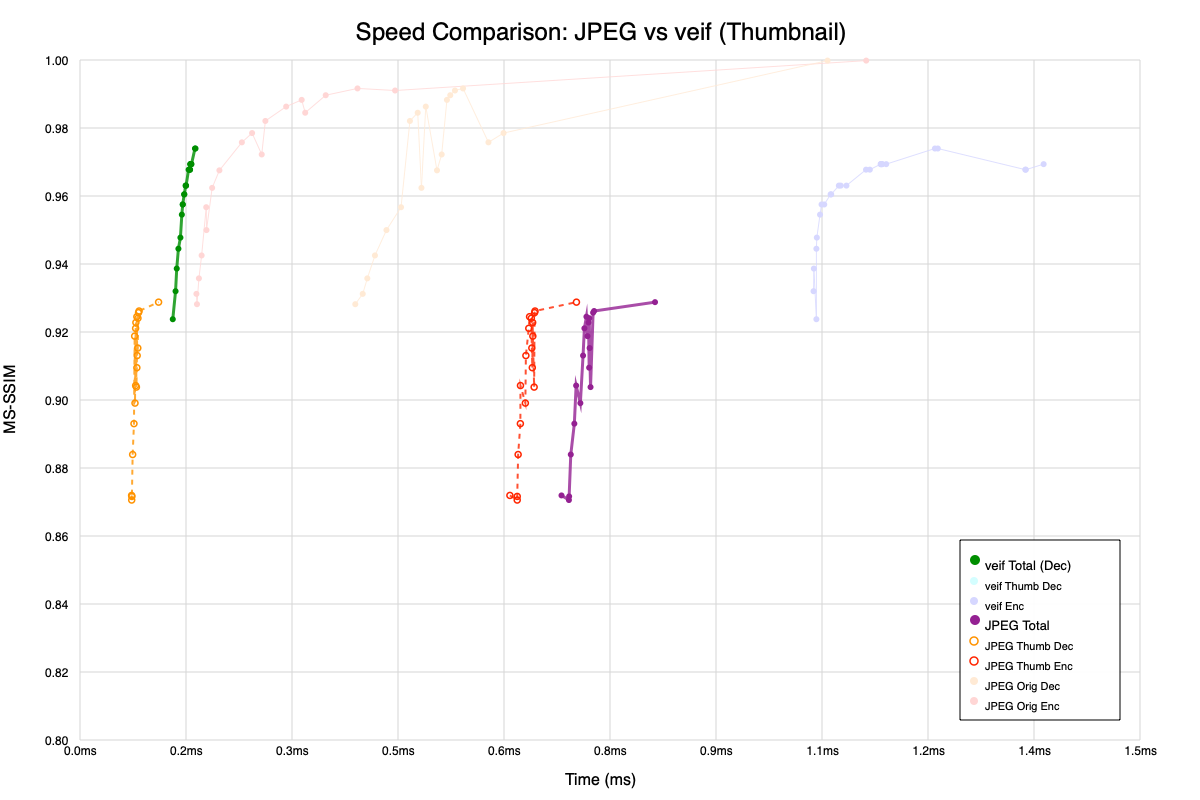
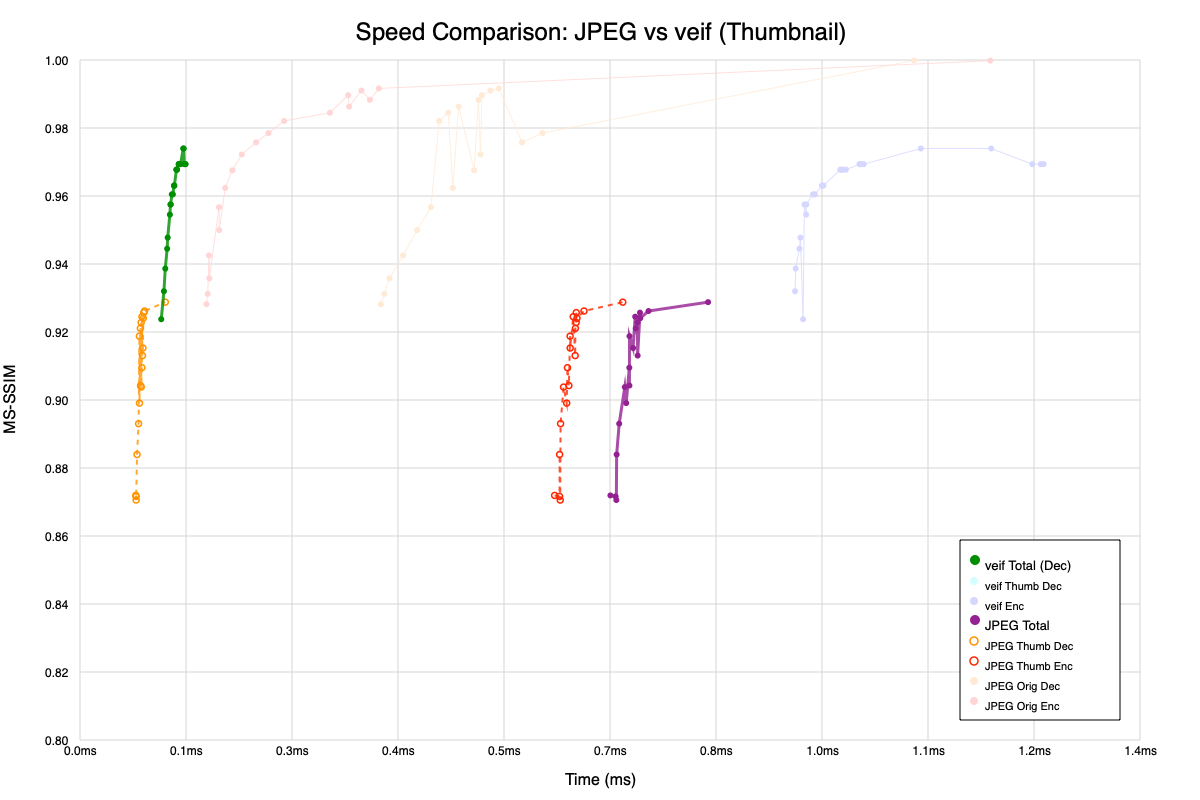
improve performance

diff --git a/Sources/veif/Image.swift b/Sources/veif/Image.swift
@@ -307,43 +307,91 @@ public struct Image16: Sendable {
     }
     
     public mutating func updateY(data: Block2D, startX: Int, startY: Int, size: Int) {
-        for h in 0..<size {
-            if height <= (startY + h) {
-                continue
-            }
-            for w in 0..<size {
-                if width <= (startX + w) {
-                    continue
+        let validStartY = max(0, startY)
+        let validStartX = max(0, startX)
+        let validEndY = min(height, startY + size)
+        let validEndX = min(width, startX + size)
+        
+        let loopH = validEndY - validStartY
+        let loopW = validEndX - validStartX
+        
+        if loopH <= 0 || loopW <= 0 { return }
+        
+        let dataOffsetY = validStartY - startY
+        let dataOffsetX = validStartX - startX
+        
+        for h in 0..<loopH {
+            self.y[validStartY + h].withUnsafeMutableBufferPointer { destPtr in
+                data.withUnsafeBufferPointer(atRow: dataOffsetY + h) { srcPtr in
+                    guard let destBase = destPtr.baseAddress,
+                          let srcBase = srcPtr.baseAddress else { return }
+                    
+                    let destStart = destBase.advanced(by: validStartX)
+                    let srcStart = srcBase.advanced(by: dataOffsetX)
+                    destStart.update(from: srcStart, count: loopW)
                 }
-                self.y[startY + h][startX + w] = data[h, w]
             }
         }
     }
     
     public mutating func updateCb(data: Block2D, startX: Int, startY: Int, size: Int) {
-        for h in 0..<size {
-            if (height / 2) <= (startY + h) {
-                continue
-            }
-            for w in 0..<size {
-                if (width / 2) <= (startX + w) {
-                    continue
+        let halfHeight = (height / 2)
+        let halfWidth = (width / 2)
+        
+        let validStartY = max(0, startY)
+        let validStartX = max(0, startX)
+        let validEndY = min(halfHeight, startY + size)
+        let validEndX = min(halfWidth, startX + size)
+        
+        let loopH = validEndY - validStartY
+        let loopW = validEndX - validStartX
+        
+        if loopH <= 0 || loopW <= 0 { return }
+        
+        let dataOffsetY = validStartY - startY
+        let dataOffsetX = validStartX - startX
+        
+        for h in 0..<loopH {
+            self.cb[validStartY + h].withUnsafeMutableBufferPointer { destPtr in
+                data.withUnsafeBufferPointer(atRow: dataOffsetY + h) { srcPtr in
+                    guard let destBase = destPtr.baseAddress,
+                          let srcBase = srcPtr.baseAddress else { return }
+                    
+                    let destStart = destBase.advanced(by: validStartX)
+                    let srcStart = srcBase.advanced(by: dataOffsetX)
+                    destStart.update(from: srcStart, count: loopW)
                 }
-                self.cb[startY + h][startX + w] = data[h, w]
             }
         }
     }
     
     public mutating func updateCr(data: Block2D, startX: Int, startY: Int, size: Int) {
-        for h in 0..<size {
-            if (height / 2) <= (startY + h) {
-                continue
-            }
-            for w in 0..<size {
-                if (width / 2) <= (startX + w) {
-                    continue
+        let halfHeight = (height / 2)
+        let halfWidth = (width / 2)
+        
+        let validStartY = max(0, startY)
+        let validStartX = max(0, startX)
+        let validEndY = min(halfHeight, startY + size)
+        let validEndX = min(halfWidth, startX + size)
+        
+        let loopH = validEndY - validStartY
+        let loopW = validEndX - validStartX
+        
+        if loopH <= 0 || loopW <= 0 { return }
+        
+        let dataOffsetY = validStartY - startY
+        let dataOffsetX = validStartX - startX
+        
+        for h in 0..<loopH {
+            self.cr[validStartY + h].withUnsafeMutableBufferPointer { destPtr in
+                data.withUnsafeBufferPointer(atRow: dataOffsetY + h) { srcPtr in
+                    guard let destBase = destPtr.baseAddress,
+                          let srcBase = srcPtr.baseAddress else { return }
+                    
+                    let destStart = destBase.advanced(by: validStartX)
+                    let srcStart = srcBase.advanced(by: dataOffsetX)
+                    destStart.update(from: srcStart, count: loopW)
                 }
-                self.cr[startY + h][startX + w] = data[h, w]
             }
         }
     }
@@ -352,19 +400,53 @@ public struct Image16: Sendable {
         var img = YCbCrImage(width: width, height: height)
         
         for y in 0..<height {
-            for x in 0..<width {
-                let offset = img.yOffset(x, y)
-                img.yPlane[offset] = clampU8(self.y[y][x])
+            let srcRow = self.y[y]
+            let destOffset = img.yOffset(0, y)
+            
+            srcRow.withUnsafeBufferPointer { srcPtr in
+                img.yPlane.withUnsafeMutableBufferPointer { destPtr in
+                    guard let srcBase = srcPtr.baseAddress,
+                          let destBase = destPtr.baseAddress else { return }
+                    
+                    let destRowStart = destBase.advanced(by: destOffset)
+                    
+                    for i in 0..<width {
+                        destRowStart[i] = clampU8(srcBase[i])
+                    }
+                }
             }
         }
         
-        for y in 0..<(height / 2) {
-            for x in 0..<(width / 2) {
-                let offset = img.cOffset(x, y)
-                img.cbPlane[offset] = clampU8(self.cb[y][x])
-                img.crPlane[offset] = clampU8(self.cr[y][x])
+        let halfHeight = height / 2
+        let halfWidth = width / 2
+        
+        for y in 0..<halfHeight {
+            let srcCbRow = self.cb[y]
+            let srcCrRow = self.cr[y]
+            let destOffset = img.cOffset(0, y)
+            
+            srcCbRow.withUnsafeBufferPointer { cbPtr in
+                srcCrRow.withUnsafeBufferPointer { crPtr in
+                    img.cbPlane.withUnsafeMutableBufferPointer { destCbPtr in
+                        img.crPlane.withUnsafeMutableBufferPointer { destCrPtr in
+                            guard let cbBase = cbPtr.baseAddress,
+                                  let crBase = crPtr.baseAddress,
+                                  let destCbBase = destCbPtr.baseAddress,
+                                  let destCrBase = destCrPtr.baseAddress else { return }
+                            
+                            let destCbRowStart = destCbBase.advanced(by: destOffset)
+                            let destCrRowStart = destCrBase.advanced(by: destOffset)
+                            
+                            for i in 0..<halfWidth {
+                                destCbRowStart[i] = clampU8(cbBase[i])
+                                destCrRowStart[i] = clampU8(crBase[i])
+                            }
+                        }
+                    }
+                }
             }
         }
+        
         return img
     }
 }

diff --git a/Tests/veifTests/ImageTests.swift b/Tests/veifTests/ImageTests.swift
@@ -1,0 +1,129 @@
+import XCTest
+@testable import veif
+
+final class ImageTests: XCTestCase {
+    
+    func testUpdateY() {
+        var image = Image16(width: 8, height: 8)
+        let block = Block2D(width: 4, height: 4)
+        for h in 0..<4 {
+            for w in 0..<4 {
+                block[h, w] = Int16(h * 4 + w + 1)
+            }
+        }
+        
+        // Normal update
+        image.updateY(data: block, startX: 0, startY: 0, size: 4)
+        
+        for h in 0..<4 {
+            for w in 0..<4 {
+                XCTAssertEqual(image.y[h][w], Int16(h * 4 + w + 1))
+            }
+        }
+        
+        // Boundary update (clipping)
+        image.updateY(data: block, startX: 6, startY: 6, size: 4)
+        // Should update (6,6), (6,7), (7,6), (7,7)
+        // Block data indices:
+        // h=0, w=0 -> 1 -> img[6][6]
+        // h=0, w=1 -> 2 -> img[6][7]
+        // h=1, w=0 -> 5 -> img[7][6]
+        // h=1, w=1 -> 6 -> img[7][7]
+        
+        XCTAssertEqual(image.y[6][6], 1)
+        XCTAssertEqual(image.y[6][7], 2)
+        XCTAssertEqual(image.y[7][6], 5)
+        XCTAssertEqual(image.y[7][7], 6)
+        
+        // Ensure no overflow / crash for out of bounds
+        image.updateY(data: block, startX: 8, startY: 8, size: 4) // Completely out
+        image.updateY(data: block, startX: -10, startY: -10, size: 4) // Negative out (though size is usually positive, logic handles startX/Y relative to loops)
+    }
+
+    func testUpdateCb() {
+        var image = Image16(width: 8, height: 8)
+        // Cb size is 4x4
+        let block = Block2D(width: 2, height: 2)
+        block[0, 0] = 10
+        block[0, 1] = 20
+        block[1, 0] = 30
+        block[1, 1] = 40
+        
+        // Normal update
+        image.updateCb(data: block, startX: 0, startY: 0, size: 2)
+        XCTAssertEqual(image.cb[0][0], 10)
+        XCTAssertEqual(image.cb[0][1], 20)
+        XCTAssertEqual(image.cb[1][0], 30)
+        XCTAssertEqual(image.cb[1][1], 40)
+        
+        // Boundary update (clipping)
+        // Cb width is 4. startX=3. size=2.
+        // w=0 -> x=3. valid.
+        // w=1 -> x=4. invalid (width is 4, indices 0..3).
+        image.updateCb(data: block, startX: 3, startY: 0, size: 2)
+        XCTAssertEqual(image.cb[0][3], 10)
+        // cb[0][4] should not be touched / exist (out of bounds)
+        
+        // Check verify checking logic
+        // halfWidth = 4.
+        // endX = min(3 + 2, 4) = 4.
+        // startX = 3.
+        // loopW = 4 - 3 = 1.
+        // Correct.
+        
+        // Boundary Height
+        // Cb height 4. startY=3. size=2.
+        image.updateCb(data: block, startX: 0, startY: 3, size: 2)
+        XCTAssertEqual(image.cb[3][0], 10)
+    }
+
+    func testUpdateCr() {
+        var image = Image16(width: 8, height: 8)
+        let block = Block2D(width: 2, height: 2)
+        block[0, 0] = 99
+        
+        image.updateCr(data: block, startX: 0, startY: 0, size: 2)
+        XCTAssertEqual(image.cr[0][0], 99)
+    }
+
+    func testToYCbCr() {
+        var image = Image16(width: 4, height: 4)
+        
+        // Fill Y
+        image.y[0][0] = 100
+        image.y[0][1] = 300 // Should clamp to 255
+        image.y[0][2] = -50 // Should clamp to 0
+        image.y[0][3] = 128
+        
+        // Fill Cb/Cr (size 2x2)
+        image.cb[0][0] = 50
+        image.cb[0][1] = 200
+        
+        image.cr[0][0] = -10
+        image.cr[0][1] = 260
+        
+        let ycbcr = image.toYCbCr()
+        
+        XCTAssertEqual(ycbcr.width, 4)
+        XCTAssertEqual(ycbcr.height, 4)
+        
+        // Check Y
+        XCTAssertEqual(ycbcr.yPlane[ycbcr.yOffset(0, 0)], 100)
+        XCTAssertEqual(ycbcr.yPlane[ycbcr.yOffset(1, 0)], 255)
+        XCTAssertEqual(ycbcr.yPlane[ycbcr.yOffset(2, 0)], 0)
+        XCTAssertEqual(ycbcr.yPlane[ycbcr.yOffset(3, 0)], 128)
+        
+        // Check Cb
+        // 4:2:0 subsampling by default in Image16? 
+        // Image16 stores Cb/Cr as size/2. YCbCrImage default is 4:2:0.
+        // Cb size in YCbCrImage for 4x4 image is 2x2.
+        // indices: (0,0), (1,0), (0,1), (1,1)
+        
+        XCTAssertEqual(ycbcr.cbPlane[ycbcr.cOffset(0, 0)], 50)
+        XCTAssertEqual(ycbcr.cbPlane[ycbcr.cOffset(1, 0)], 200)
+        
+        // Check Cr
+        XCTAssertEqual(ycbcr.crPlane[ycbcr.cOffset(0, 0)], 0)
+        XCTAssertEqual(ycbcr.crPlane[ycbcr.cOffset(1, 0)], 255)
+    }
+}

diff --git a/Sources/veif/Block2D.swift b/Sources/veif/Block2D.swift
@@ -34,4 +34,13 @@ public class Block2D: @unchecked Sendable {
             }
         }
     }
+
+    public func withUnsafeBufferPointer<R>(atRow y: Int, body: (UnsafeBufferPointer<Int16>) throws -> R) rethrows -> R {
+        let offset = self.rowOffset(y: y)
+        return try self.data.withUnsafeBufferPointer { ptr in
+            let rowStart = ptr.baseAddress!.advanced(by: offset)
+            let rowBuffer = UnsafeBufferPointer(start: rowStart, count: self.width)
+            return try body(rowBuffer)
+        }
+    }
 }
